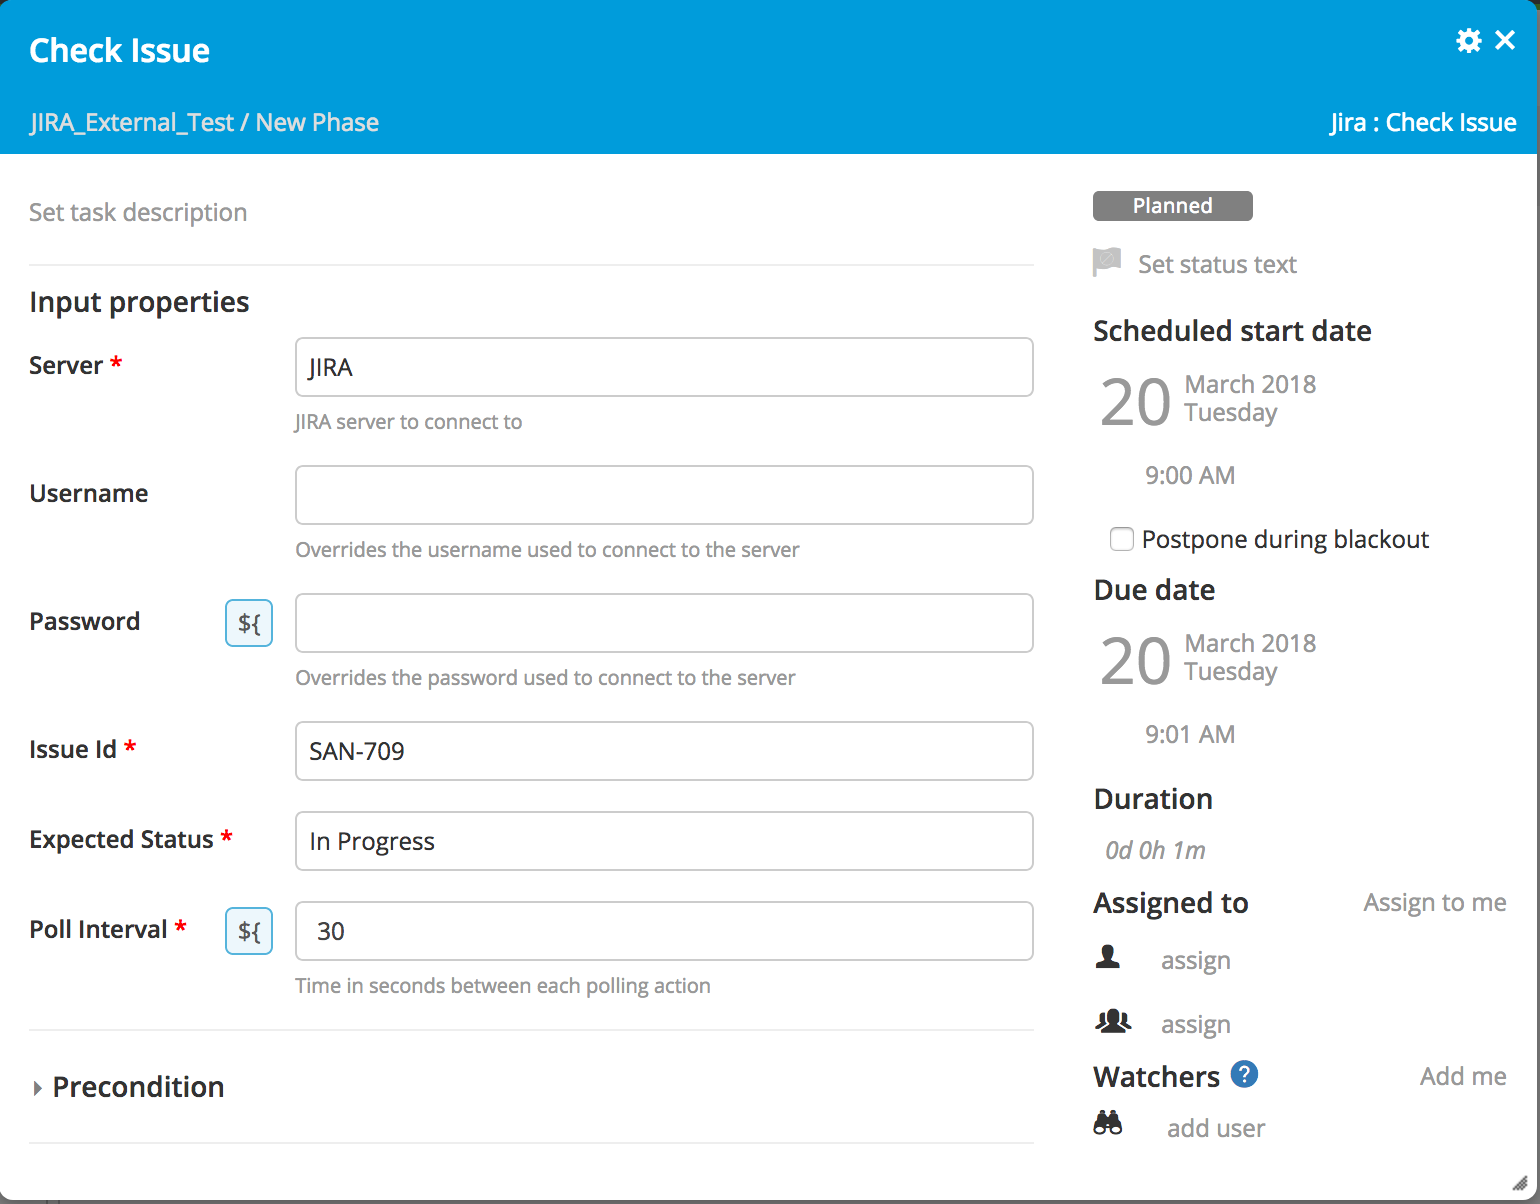
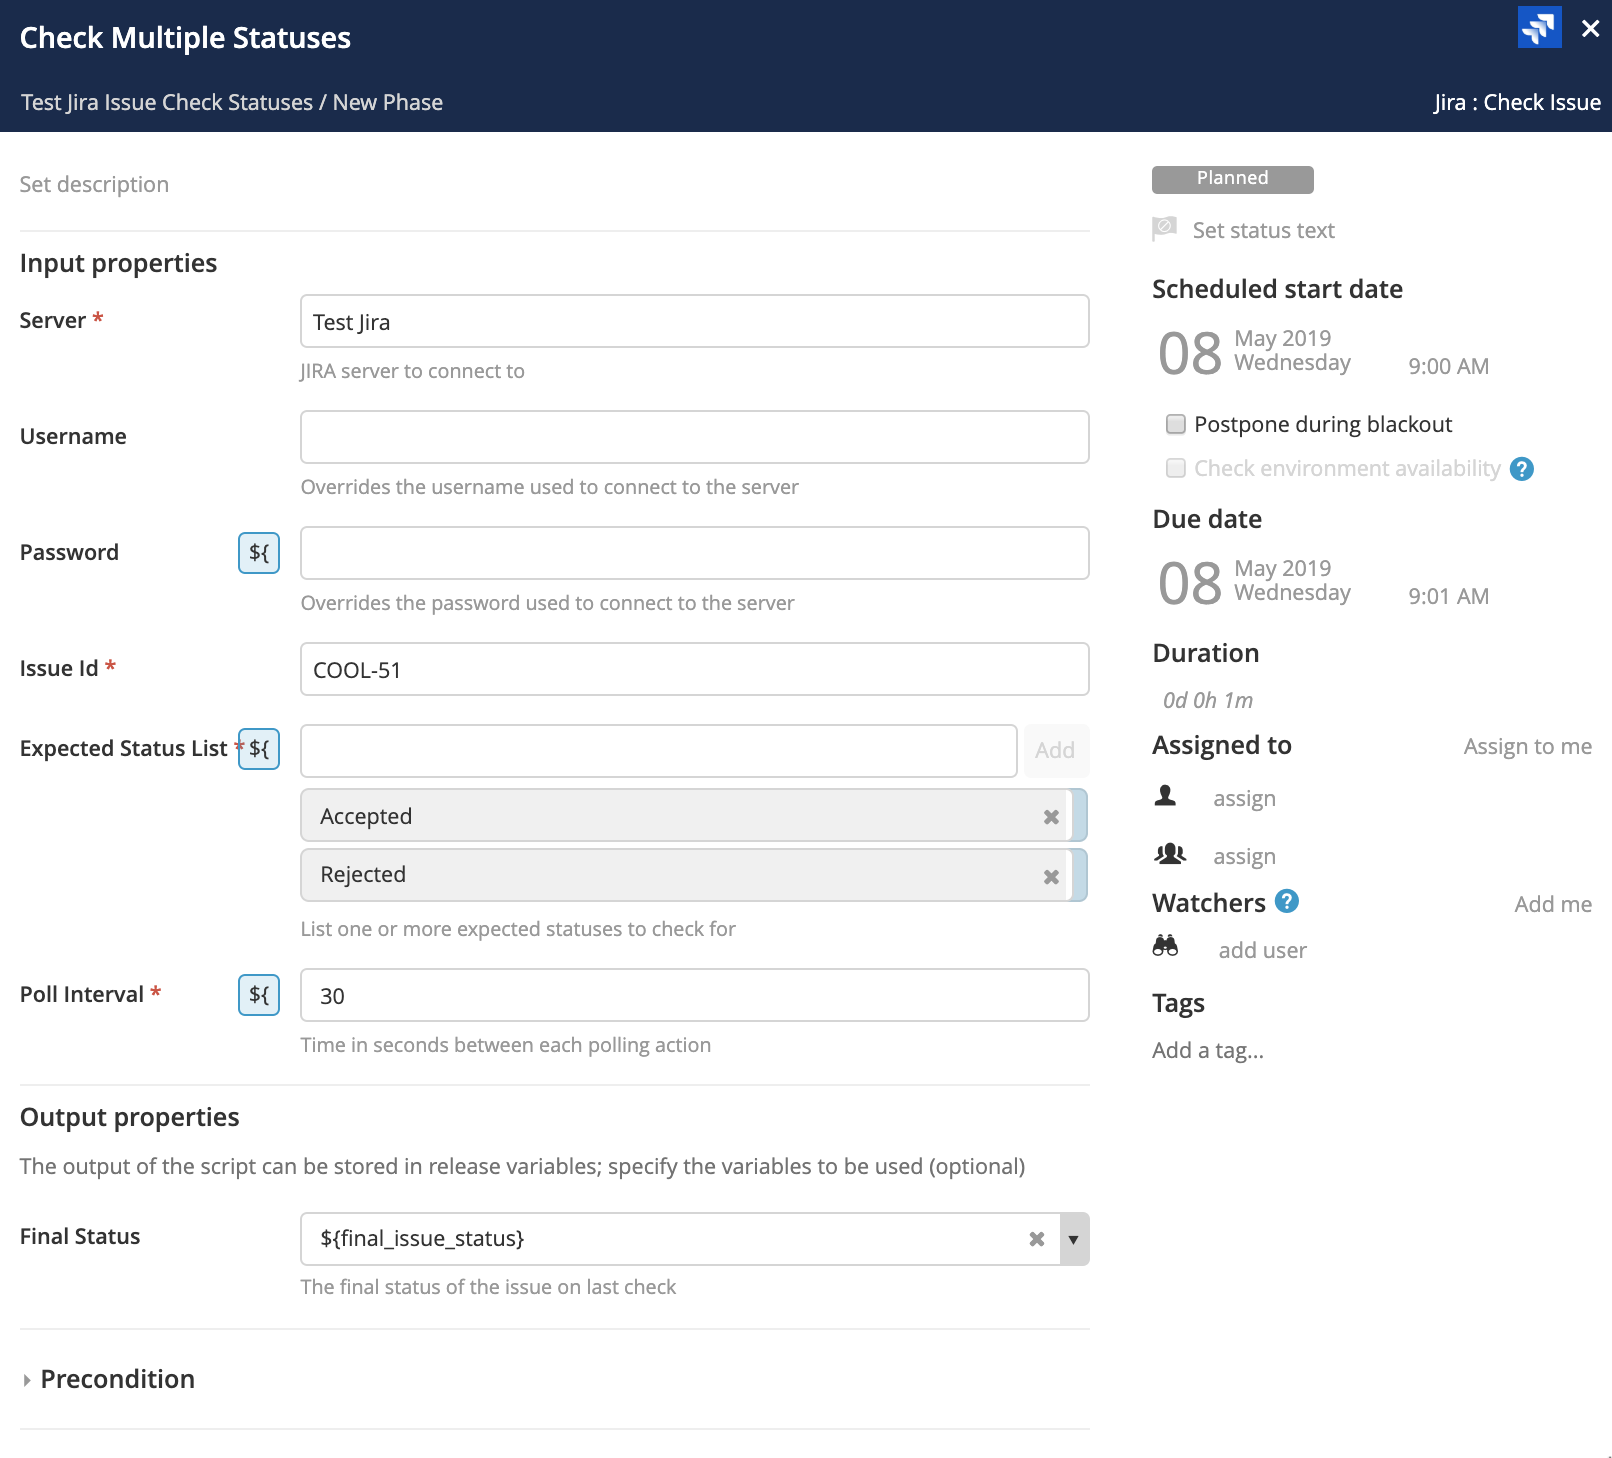
updated the readme and image for the CheckIssue Task

diff --git a/README.md b/README.md
@@ -43,7 +43,14 @@ Trigger when a new issue appears top of the search results of a JQL query (like 
 
 ![CheckIssue](images/CheckIssue.png)
 
-
++ Check Issue (statuses) - Polls Jira to check the status of a Issue. It will complete once the issue is in the correct state
+  * `jiraServer` - Jira server from the Configuration screen in XL Release
+  * `username` - Optional username override for the connection to Jira
+  * `password` - Optional password override for the connection to Jira
+  * `issueId` - Jira issue ID to check, e.g. SAN-672
+  * `expectedStatusList` - This is the Jira statuses to complete on, the task will poll until one of these status is met. This checks for a status name, e.g. "Resolved". To double check the case of a status, export an issue to XML and check the value of the status field.
+  * `pollInterval` - Interval in seconds between polling actions
+  * `finalStatus` - Output property that will contain the final status. This can be saved in a release variable and used later in the release.
 ### Check Query
 
 ![CheckQuery](images/CheckQuery.png)
